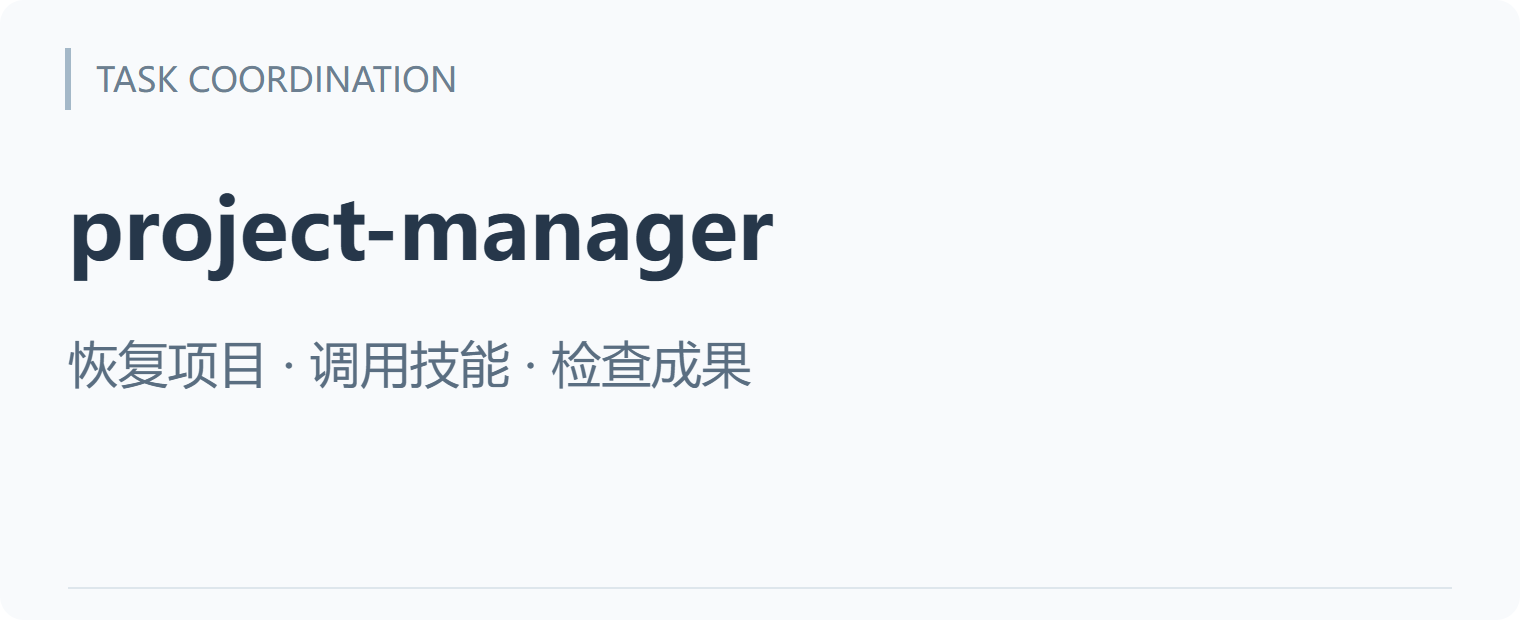
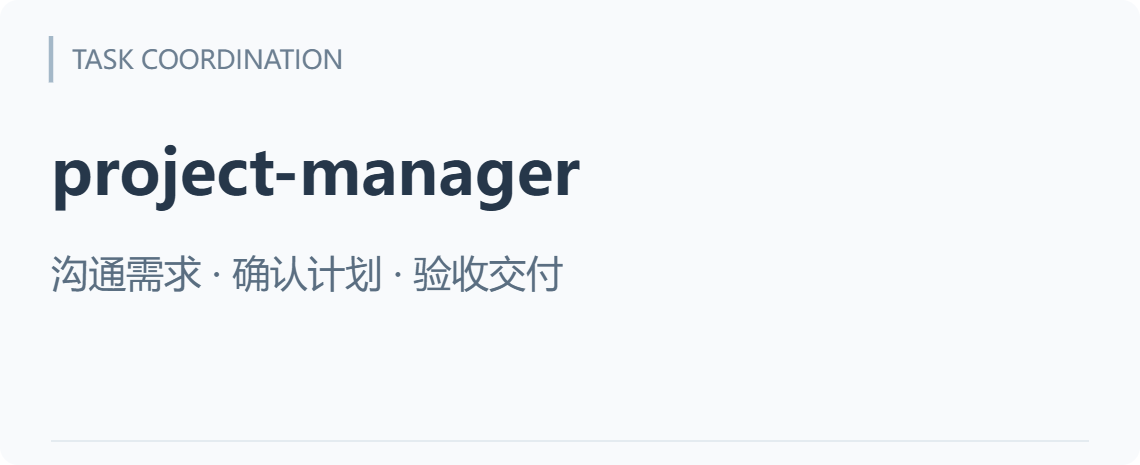
Release project-manager 1.1.0 with plan approval

Changed region(s): [[0.0307, 0.5419, 0.4912, 0.6323], [0.0614, 0.0903, 0.307, 0.1505]]

diff --git a/skills/project-manager/SKILL.md b/skills/project-manager/SKILL.md
@@ -1,8 +1,8 @@
 ---
 name: project-manager
-description: "从已知对话与项目资料恢复状态，组织按需员工分工、已有技能调用、成果验收及跨电脑交接。用于用户要求小团队自主推进、多个技能协作、接手复杂项目或持续项目续作；根据本次授权区分讨论、只读和执行。简单单步任务直接由相应技能完成，不强制组队。"
+description: "与用户梳理项目需求，提交计划并获确认后组织分工、调用技能、验收和交接。用于项目启动、需求沟通、多技能协作或复杂项目续作；独立的简单任务直接由对应技能处理。"
 metadata:
-  version: "1.0.1"
+  version: "1.1.0"
 ---
 
 # 项目管家
@@ -11,13 +11,13 @@ metadata:
 
 本技能提供工作组织方法，不自带专业制作能力、模型账号、软件环境或离线常驻运行器。使用当前环境实际开放的能力，不要求安装所参考的第三方编排框架。
 
-## 1. 确认本次任务与阶段
+## 1. 沟通需求并确认计划
 
-- 从当前请求和可读取的既有对话明确目标、交付物、当前阶段、完成条件及允许操作的范围。阶段可为讨论、只读检查、执行、修订或续作。
-- 延续用户已经给出的有效授权；用户要求自主推进时，常规判断、可逆修复和授权范围内的阶段衔接直接完成，不逐项请示。
-- “先沟通”“只读”“不要创建安装”等明确限制进入任务简报。创建本技能不等于授权它立即修改其他项目；提出计划不等于计划已获执行授权。
-- 对新消息区分补充、纠正、状态询问与更换目标。一般补充和状态询问不丢弃正在进行的任务；若用户要求先停下讨论，遵从相应范围。
-- 用户给了占位符、多个无法区分的项目或缺少会改变交付的关键事实时，先做可独立完成的定位，再集中询问必要信息。不要猜选无关项目。
+- **梳理需求。** 先从当前请求、可读取的对话和项目资料恢复目标、当前阶段、实际流程、参与人员、交付物、完成条件和授权范围。优先请用户讲一个真实例子，沿着谁发起、谁负责、怎么交接、哪里出问题来了解现状。已回答的问题直接沿用，集中询问会改变范围、流程或验收的关键缺口。项目指代不清时，先定位已有资料，再请用户明确。
+- **区分决定、建议和待定项。** 记录用户已确认的要求、助手提出的建议和仍需决定的事项。标明哪些缺口影响当前阶段，哪些可以延后。用户补充或纠正时更新受影响的需求和计划，保留其他已确认决定。
+- **必须先给计划，获得用户同意后才执行。** 对本技能承接的新项目或尚未获批的工作，先提交可审阅的计划，写清本次范围、步骤和顺序、负责人或分工、交付物、验收标准及关键待定项。小范围工作可用几句话给出计划，多阶段项目按阶段列明。以用户对当前方案的明确同意为执行条件，例如“按这个方案做”。讨论需求、回答问题或一般性认可不作为实施授权。
+- **等确认期间只做需求和计划工作。** 可在授权内查阅资料、核对事实、讨论选项和修订计划。实际制作、修改源稿或代码、安装部署和执行派工，等当前计划获批后再开始。把“先沟通”“只读”等限制带入计划和任务简报。
+- **续作沿用已确认计划。** 同一项目继续推进时，先恢复已确认计划、当前阶段及有效授权，直接推进批准范围内的下一步。交付物、实施范围或验收标准有实质变化，或下一步需要新增授权时，先请用户确认受影响部分。状态询问和普通补充按当前阶段处理。用户要求转回讨论时，随之切换阶段。
 
 ## 2. 恢复事实和权威版本
 
@@ -25,7 +25,7 @@ metadata:
 - 对事实标记已确认、提案、否决或未知；保留来源。不要把旧建议、样稿、效果图、口头“看起来可以”升级成生产定稿或其他未授予的授权。
 - 同时核对版本声明、替代关系和实际配套文件；文件修改时间只提供线索。旧待办与后续记录或实际成果冲突时核对后恢复真实状态，避免重复执行。
 - 只使用当前可读取或用户提供的历史，不假定能访问其他聊天、电脑或员工的全部上下文。无法确认的关键源稿或事实留为未知。
-- 输出简短的启动判断：现在做什么、已有依据、剩余任务及关键缺口。授权已足够时随后直接推进，不把启动单设为每次都要批准的关卡。
+- 输出简短的启动判断：现在做什么、已有依据、剩余任务及关键缺口。按第 1 节核对计划的确认状态和授权范围，再决定当前是继续讨论还是执行。
 
 ## 3. 选择技能和真实执行能力
 

diff --git a/skills/project-manager/README.md b/skills/project-manager/README.md
@@ -3,11 +3,13 @@
 <p align="center"><strong>Connect responsibilities, specialist skills, and review around one goal.</strong></p>
 <p align="center"><a href="README.zh-CN.md">简体中文</a> · <a href="../../README.md">Skill library</a> · <a href="#install">Install</a> · <a href="#check">Read-only review</a> · <a href="#execute">Execute</a> · <a href="#case">Real run</a></p>
 
-The main assistant recovers work from readable context and project files, coordinates available specialist skills, and checks results within the authorized scope. Keep simple tasks simple; organize a team when useful.
+Clarify the goal, scope, and current inputs. For new work, submit a plan with roles, deliverables, and acceptance criteria for user approval. Resume approved work within the agreed scope and reconfirm material changes.
+
+**New in 1.1.0: plan approval.** [Release notes](https://github.com/xmonk888-art/project-manager/releases/tag/project-manager-v1.1.0) · [Compare 1.0.1](https://github.com/xmonk888-art/project-manager/compare/project-manager-v1.0.1...project-manager-v1.1.0)
 
 ## How the work connects
 
-<p align="center"><a href="../../assets/overview/work-board.en.svg"><picture><source media="(max-width: 600px)" srcset="../../assets/overview/work-board.mobile.en.png"><img src="../../assets/overview/work-board.en.png" alt="Project task board: recover context, assign work, and check the handoff." width="960"></picture></a></p>
+<p align="center"><a href="../../assets/overview/work-board.en.svg"><picture><source media="(max-width: 600px)" srcset="../../assets/overview/work-board.mobile.en.png"><img src="../../assets/overview/work-board.en.png" alt="Project task board: recover context, submit a plan for approval, then execute and verify." width="960"></picture></a></p>
 
 The coordinator owns the goal and integration. Shared artifacts and stateful sessions have one writer. Handoffs identify outputs and evidence; permitted fixes are followed by affected-scope checks.
 
@@ -29,9 +31,9 @@ Install only. Report the path, version,
 and whether the client detects the skill.
 ```
 
-**WorkBuddy**　[Download the standalone ZIP](https://github.com/xmonk888-art/project-manager/releases/download/project-manager-v1.0.1/project-manager-1.0.1.zip), then import it with **Skills → Add skill → Upload skill**.
+**WorkBuddy**　[Download the standalone ZIP](https://github.com/xmonk888-art/project-manager/releases/download/project-manager-v1.1.0/project-manager-1.1.0.zip), then import it with **Skills → Add skill → Upload skill**.
 
-[Setup by client (中文)](../../docs/installation.md) · [Release notes](https://github.com/xmonk888-art/project-manager/releases/tag/project-manager-v1.0.1)
+[Setup by client (中文)](../../docs/installation.md) · [Release notes](https://github.com/xmonk888-art/project-manager/releases/tag/project-manager-v1.1.0)
 
 ## Start in five steps
 
@@ -70,10 +72,10 @@ Expect an assessment and recommendations, not claims that workers have executed 
 
 ### B · Execute authorized work
 
-Define the goal, deliverables, and permitted changes first. Reuse existing conversation when it already establishes them; supply them for a new project.
+For a new project, define the goal, deliverables, and scope, then get the plan approved. Use the prompt below to continue an approved plan.
 
 ```text
-Use $project-manager to continue this project's defined, authorized tasks.
+Use $project-manager to continue this project's approved plan.
 Recover current state, assign useful responsibilities, use available skills,
 and check the outputs. Handle routine decisions and permitted fixes.
 Report actual deliverables, evidence, and unresolved issues. If a necessary
@@ -110,6 +112,6 @@ Specialist skills, tools, fonts, software, and credentials come from the target 
 
 ## Runtime and license
 
-Current release: **1.0.1**. Only `SKILL.md`, `agents/openai.yaml`, and `references/records-and-handoff.md` are required; artwork and cases are reader documentation.
+Current release: **1.1.0**. Only `SKILL.md`, `agents/openai.yaml`, and `references/records-and-handoff.md` are required; artwork and cases are reader documentation.
 
 Licensed under MIT. Copyright (c) 2026 xmonk888-art. [MIT and scope](../../LICENSE-STATUS.md) · [Changelog](CHANGELOG.md) · [Portability (中文)](../../docs/portability.md)

diff --git a/skills/project-manager/README.zh-CN.md b/skills/project-manager/README.zh-CN.md
@@ -3,11 +3,13 @@
 <p align="center"><strong>让分工、专业技能和成果检查，围绕同一个目标衔接。</strong></p>
 <p align="center"><a href="README.md">English</a> · <a href="../../README.zh-CN.md">技能总库</a> · <a href="#install">安装</a> · <a href="#check">只读检查</a> · <a href="#execute">执行任务</a> · <a href="#case">实测</a></p>
 
-主助手根据当前可读取的对话和项目资料恢复工作，在授权范围内按需安排职责、调用已有专业技能、整合并检查成果。简单任务直接处理，复杂任务再组织团队。
+主助手先梳理目标、范围和当前版本。新项目提交分工、交付物与验收计划，等用户确认后再执行。已确认项目按原计划续作，范围实质变化时确认受影响部分。
+
+**1.1.0 新增计划确认。** [版本说明](https://github.com/xmonk888-art/project-manager/releases/tag/project-manager-v1.1.0) · [对比 1.0.1](https://github.com/xmonk888-art/project-manager/compare/project-manager-v1.0.1...project-manager-v1.1.0)
 
 ## 一轮工作如何衔接
 
-<p align="center"><a href="../../assets/overview/work-board.zh-CN.svg"><picture><source media="(max-width: 600px)" srcset="../../assets/overview/work-board.mobile.zh-CN.png"><img src="../../assets/overview/work-board.zh-CN.png" alt="项目任务看板：恢复项目、分工执行、检查交接" width="960"></picture></a></p>
+<p align="center"><a href="../../assets/overview/work-board.zh-CN.svg"><picture><source media="(max-width: 600px)" srcset="../../assets/overview/work-board.mobile.zh-CN.png"><img src="../../assets/overview/work-board.zh-CN.png" alt="项目任务看板：恢复项目、提交计划并等待确认、执行与验收" width="960"></picture></a></p>
 
 主助手负责整体目标与整合。共享文件或有状态软件会话设一个写入负责人，交接附成果位置和证据；修复后回查受影响部分。
 
@@ -29,9 +31,9 @@ references/records-and-handoff.md 和 LICENSE。
 版本和客户端识别结果。
 ```
 
-**WorkBuddy**　[下载单技能 ZIP](https://github.com/xmonk888-art/project-manager/releases/download/project-manager-v1.0.1/project-manager-1.0.1.zip)，然后在「技能 → 添加技能 → 上传技能」导入。
+**WorkBuddy**　[下载单技能 ZIP](https://github.com/xmonk888-art/project-manager/releases/download/project-manager-v1.1.0/project-manager-1.1.0.zip)，然后在「技能 → 添加技能 → 上传技能」导入。
 
-[分客户端安装说明](../../docs/installation.md) · [版本说明](https://github.com/xmonk888-art/project-manager/releases/tag/project-manager-v1.0.1)
+[分客户端安装说明](../../docs/installation.md) · [版本说明](https://github.com/xmonk888-art/project-manager/releases/tag/project-manager-v1.1.0)
 
 ## 五步开始使用
 
@@ -70,10 +72,10 @@ references/records-and-handoff.md 和 LICENSE。
 
 ### B · 执行已授权任务
 
-先明确目标、交付物和允许修改范围。已有对话说清楚时可以直接使用；新项目请补充这些信息。
+新项目先明确目标、交付物和允许修改范围，提交计划并获得确认。以下指令适用于已有获批计划的项目。
 
 ```text
-使用 $project-manager，继续当前项目中已明确且已授权的任务。
+使用 $project-manager，沿用当前项目已确认的计划继续执行。
 先恢复状态，再按需分工、调用已有技能，完成成果检查后向我汇报。
 常规判断和授权范围内的修复自行推进；说明实际交付、检查结果和未解决项。
 遇到超出授权的必要动作，先完成可独立推进的部分，再说明具体影响。
@@ -109,6 +111,6 @@ references/records-and-handoff.md 和 LICENSE。
 
 ## 运行文件与许可
 
-当前发布版本为 **1.0.1**。运行只需 `SKILL.md`、`agents/openai.yaml`、`references/records-and-handoff.md`，图和案例供人阅读。
+当前发布版本为 **1.1.0**。运行只需 `SKILL.md`、`agents/openai.yaml`、`references/records-and-handoff.md`，图和案例供人阅读。
 
 采用 MIT 许可证，版权署名为 xmonk888-art。[MIT 与许可范围](../../LICENSE-STATUS.md) · [版本记录](CHANGELOG.md) · [迁移说明](../../docs/portability.md)

diff --git a/README.md b/README.md
@@ -1,4 +1,4 @@
-<p align="center"><a href="assets/overview/project-flow.en.svg"><picture><source media="(max-width: 600px)" srcset="assets/overview/project-flow.mobile.en.png"><img src="assets/overview/project-flow.en.png" alt="Intake, recover context, assign work, and review the handoff. Fill evidence gaps and recheck." width="960"></picture></a></p>
+<p align="center"><a href="assets/overview/project-flow.en.svg"><picture><source media="(max-width: 600px)" srcset="assets/overview/project-flow.mobile.en.png"><img src="assets/overview/project-flow.en.png" alt="Intake, submit a plan for user approval, then execute and verify." width="960"></picture></a></p>
 
 <p align="center"><strong>Help your AI organize work like a small project team.</strong></p>
 <p align="center">English · <a href="README.zh-CN.md">简体中文</a> · <a href="#skills">Choose a skill</a> · <a href="#case">Real-run case</a> · <a href="#install">Get and install (中文)</a></p>
@@ -9,9 +9,11 @@ xualab is a growing library of independently usable skills. Each skill has a cle
 
 ## Choose a skill to start
 
-<table><tr><td><h3><a href="skills/project-manager/README.md">project-manager</a></h3><p>Recover a complex project's goal and current sources, coordinate available specialist capabilities, and review the outputs before reporting.</p><p><a href="skills/project-manager/README.md#install">Install this skill →</a>　<a href="skills/project-manager/README.md#start">Choose a task mode →</a>　<a href="cases/vi-readonly-20261105/README.md">See a real run (中文) →</a></p></td></tr></table>
+<table><tr><td><h3><a href="skills/project-manager/README.md">project-manager</a></h3><p>Clarify requirements and get the plan approved. Coordinate available specialist skills and verify the outputs.</p><p><a href="skills/project-manager/README.md#install">Install this skill →</a>　<a href="skills/project-manager/README.md#start">Choose a task mode →</a>　<a href="cases/vi-readonly-20261105/README.md">See a real run (中文) →</a></p></td></tr></table>
 
 You do not need the whole library. Open the skill page, obtain its three runtime files, then place them in the actual project you want to work on.
+
+**1.1.0** New projects require approval of the plan before execution. Follow the approved plan when resuming. [What changed](https://github.com/xmonk888-art/project-manager/releases/tag/project-manager-v1.1.0) · [Compare versions](https://github.com/xmonk888-art/project-manager/compare/project-manager-v1.0.1...project-manager-v1.1.0)
 
 <a id="install"></a>
 
@@ -31,9 +33,9 @@ Install only. Report the path, version,
 and whether the client detects the skill.
 ```
 
-**WorkBuddy**　[Download the standalone ZIP](https://github.com/xmonk888-art/project-manager/releases/download/project-manager-v1.0.1/project-manager-1.0.1.zip), then import it with **Skills → Add skill → Upload skill**.
+**WorkBuddy**　[Download the standalone ZIP](https://github.com/xmonk888-art/project-manager/releases/download/project-manager-v1.1.0/project-manager-1.1.0.zip), then import it with **Skills → Add skill → Upload skill**.
 
-[Setup by client (中文)](docs/installation.md) · [Release notes](https://github.com/xmonk888-art/project-manager/releases/tag/project-manager-v1.0.1)
+[Setup by client (中文)](docs/installation.md) · [Release notes](https://github.com/xmonk888-art/project-manager/releases/tag/project-manager-v1.1.0)
 
 ## Library, skill, and project
 

diff --git a/docs/usage.md b/docs/usage.md
@@ -14,10 +14,20 @@
 
 预期收到状态恢复、能力核对和分工建议，不应出现“员工已完成”或项目文件被修改的结果。
 
-## 2. 授权范围内执行
+## 2. 提交计划与执行
+
+新项目可复制这段启动指令。计划确认后再进入执行。
 
 ```text
-使用 $project-manager，完成当前项目的【具体交付物】。
+使用 $project-manager，先跟我梳理目标、范围与限制，
+提出分工、交付物、执行步骤和验收标准。
+先给我审阅计划，等我确认后再执行。
+```
+
+已有确认计划时，使用以下续作指令。
+
+```text
+使用 $project-manager，按已确认的计划完成【具体交付物】。
 已确认要求：【要求和完成条件】。
 允许操作：【可修改文件或新建成果的范围】。
 保留限制：【必须保留的源文件、禁止动作及外部发布限制】。
@@ -34,7 +44,7 @@
 ```text
 使用 $project-manager，继续当前项目。
 先读取项目入口、状态与最新成果，核对已确认决定、有效验收证据和版本替代关系。
-沿用本对话仍然有效的授权，从尚未完成的任务继续；不因旧日志写着待办而盲目重跑。
+沿用已确认的计划与仍然有效的授权，从尚未完成的任务继续；不因旧日志写着待办而盲目重跑。
 授权或权威输入无法确认时，标明缺口并继续可独立完成的部分。
 完成后汇报本次新增成果、复用的检查及仍待处理项。
 ```

diff --git a/skills/project-manager/references/records-and-handoff.md b/skills/project-manager/references/records-and-handoff.md
@@ -15,9 +15,10 @@
 待完成任务与依赖：
 当前可用技能/工具；待核对能力：
 拟议分工、整合负责人和验收办法：
+当前计划版本或审阅入口、确认状态及用户确认依据：
 ```
 
-新请求已足够明确时，简报可以缩为几句话后直接执行；不要要求用户重复确认既有决定。
+新请求明确时，可把简报和计划合为几句话供用户确认。续作沿用已确认计划，实质变更按技能正文重新确认受影响部分。
 
 ## 员工任务单与交接
 
@@ -46,6 +47,7 @@
 | 目标、阶段与有效范围 | 确认本次可以推进到哪里 |
 | 当前源稿与替代关系 | 避免旧版和新配套文件混用 |
 | 确认决定、未知与依据 | 避免把提案升级成事实 |
+| 当前计划及用户确认记录 | 恢复已获批范围，判断是否可以执行 |
 | 任务、负责人、前置依赖和状态 | 组织顺序、并行与文件所有权 |
 | 实际产物及输入版本 | 判断交接和验收是否对应同一份工作 |
 | 检查方法、证据、范围与未验证项 | 使通过结论可追溯 |

diff --git a/docs/installation.md b/docs/installation.md
@@ -4,7 +4,7 @@
 
 ## 获取单个技能
 
-[下载 project-manager 1.0.1 单技能 ZIP](https://github.com/xmonk888-art/project-manager/releases/download/project-manager-v1.0.1/project-manager-1.0.1.zip) · [版本说明与附件](https://github.com/xmonk888-art/project-manager/releases/tag/project-manager-v1.0.1)
+[下载 project-manager 1.1.0 单技能 ZIP](https://github.com/xmonk888-art/project-manager/releases/download/project-manager-v1.1.0/project-manager-1.1.0.zip) · [版本说明与附件](https://github.com/xmonk888-art/project-manager/releases/tag/project-manager-v1.1.0)
 
 单技能附件只包含 project-manager 及其说明，不必安装整个总库。也可从仓库 `skills/project-manager/` 取得三个运行文件与 LICENSE。GitHub 的“Download ZIP”取得整个总库，WorkBuddy 请使用这里的单技能附件。
 

diff --git a/CHANGELOG.md b/CHANGELOG.md
@@ -2,6 +2,13 @@
 
 总库逐项记录技能和资料变化；技能版本以各自 `SKILL.md` 和技能内版本记录为准，不把总库资料修订自动当成所有技能升级。
 
+## 1.1.0 · 先确认计划，再执行
+
+- 新项目先沟通需求并提交计划。用户确认后开始派工、制作与验收。
+- 续作沿用已获批计划。范围、交付物或验收标准有实质变化时，重新确认受影响部分。
+- 启动简报与交接模板记录计划版本、确认状态和确认依据。
+- 同步中英文介绍、桌面及手机配图、安装入口与单技能 ZIP。首发前 VI 只读实测仍按原案例记录。
+
 ## 1.0.1 · 文档与配图
 
 - 首页首屏、技能说明和实测区使用统一技能名称的配图，提供中英文桌面版和手机版。

diff --git a/skills/project-manager/CHANGELOG.md b/skills/project-manager/CHANGELOG.md
@@ -1,5 +1,12 @@
 # project-manager 版本记录
 
+## 1.1.0 · 先确认计划，再执行
+
+- 新项目先沟通需求并提交计划。用户确认后开始派工、制作与验收。
+- 续作沿用已获批计划。范围、交付物或验收标准有实质变化时，重新确认受影响部分。
+- 启动简报与交接模板记录计划版本、确认状态和确认依据。
+- 同步中英文介绍、桌面及手机配图、安装入口与单技能 ZIP。首发前 VI 只读实测仍按原案例记录。
+
 ## 1.0.1 · 文档与配图
 
 - 中英文说明在安装前展示工作看板，实测区使用新版复核摘要。

diff --git a/docs/validation.md b/docs/validation.md
@@ -1,6 +1,6 @@
 # 验证记录与能力边界
 
-当前发布版本为 **1.0.1**。下述真实运行发生于首发前，使用更名前的技能标识。这里区分设计核验、创建检查和真实运行，避免把不同阶段的结论混用。
+当前发布版本为 **1.1.0**。下述真实运行发生于首发前，使用更名前的技能标识。这里区分设计核验、创建检查和真实运行，避免把不同阶段的结论混用。
 
 ## 已有证据
 
